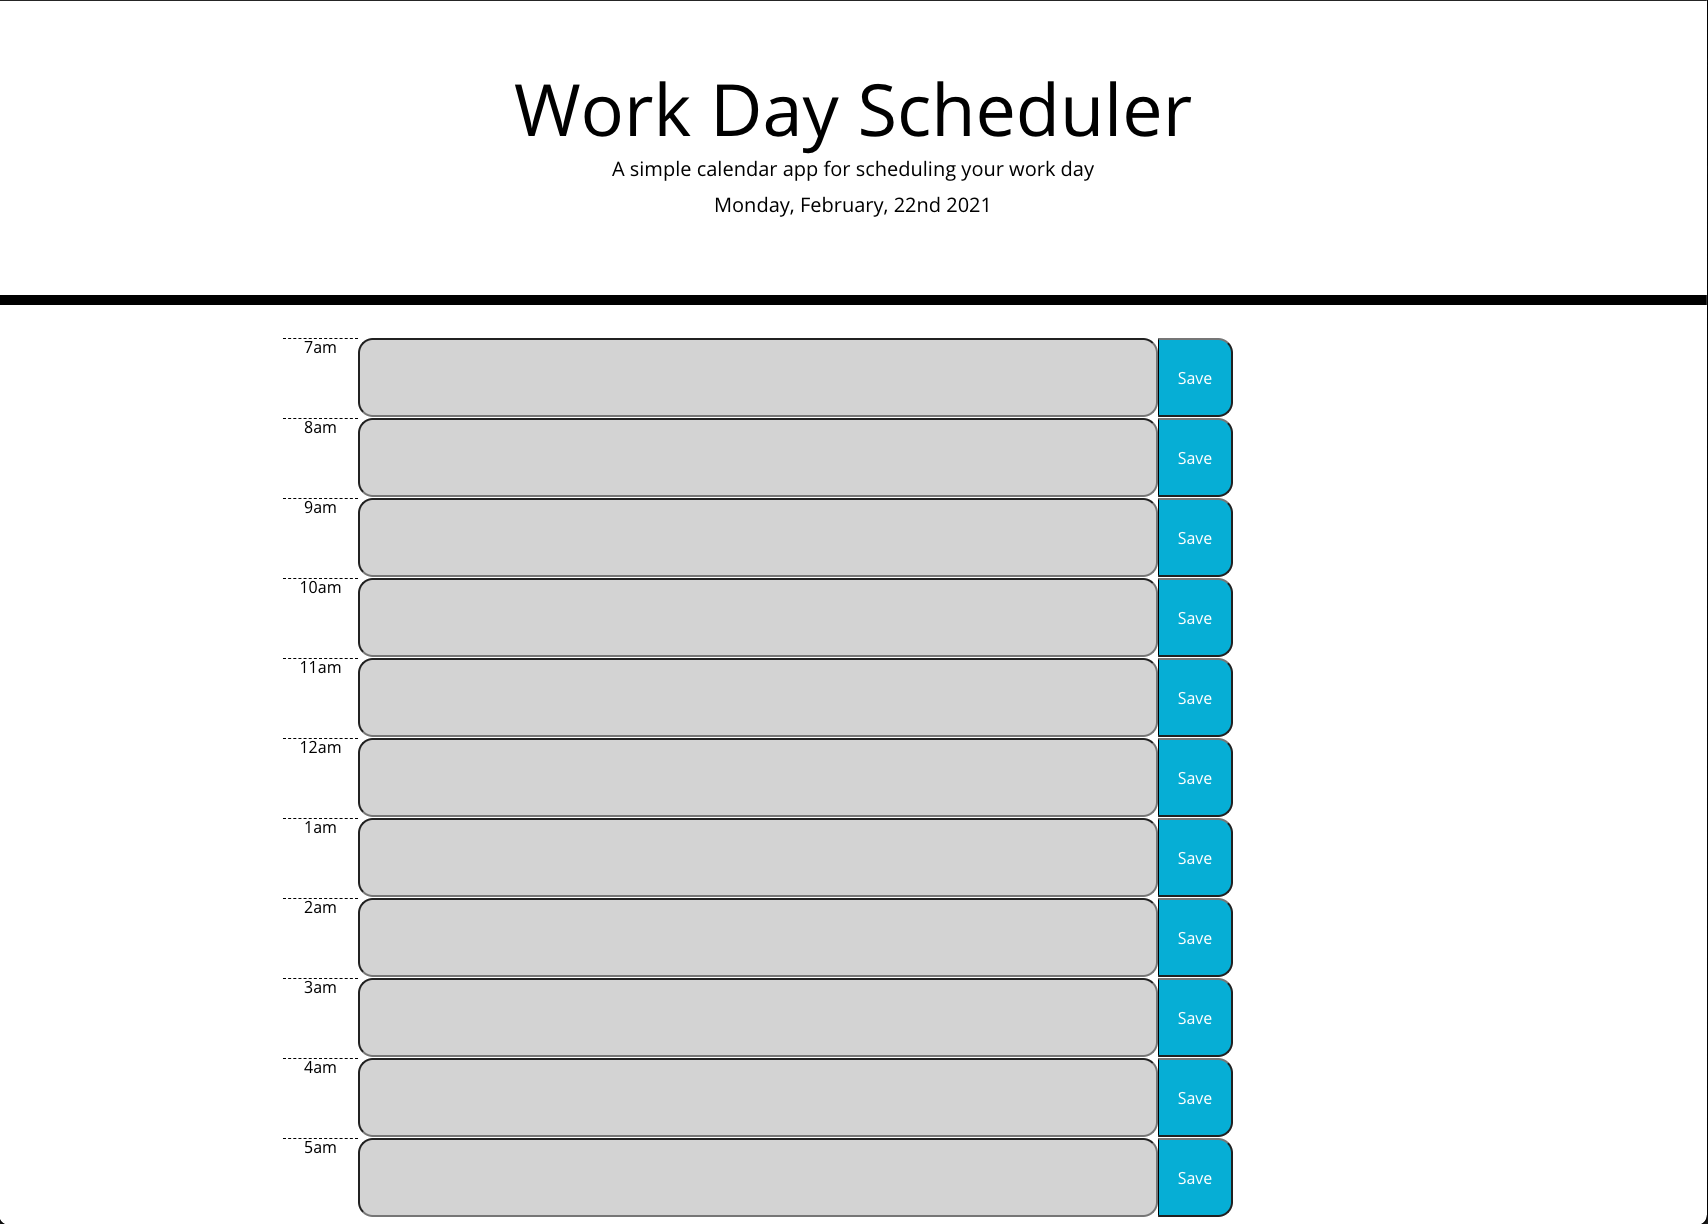
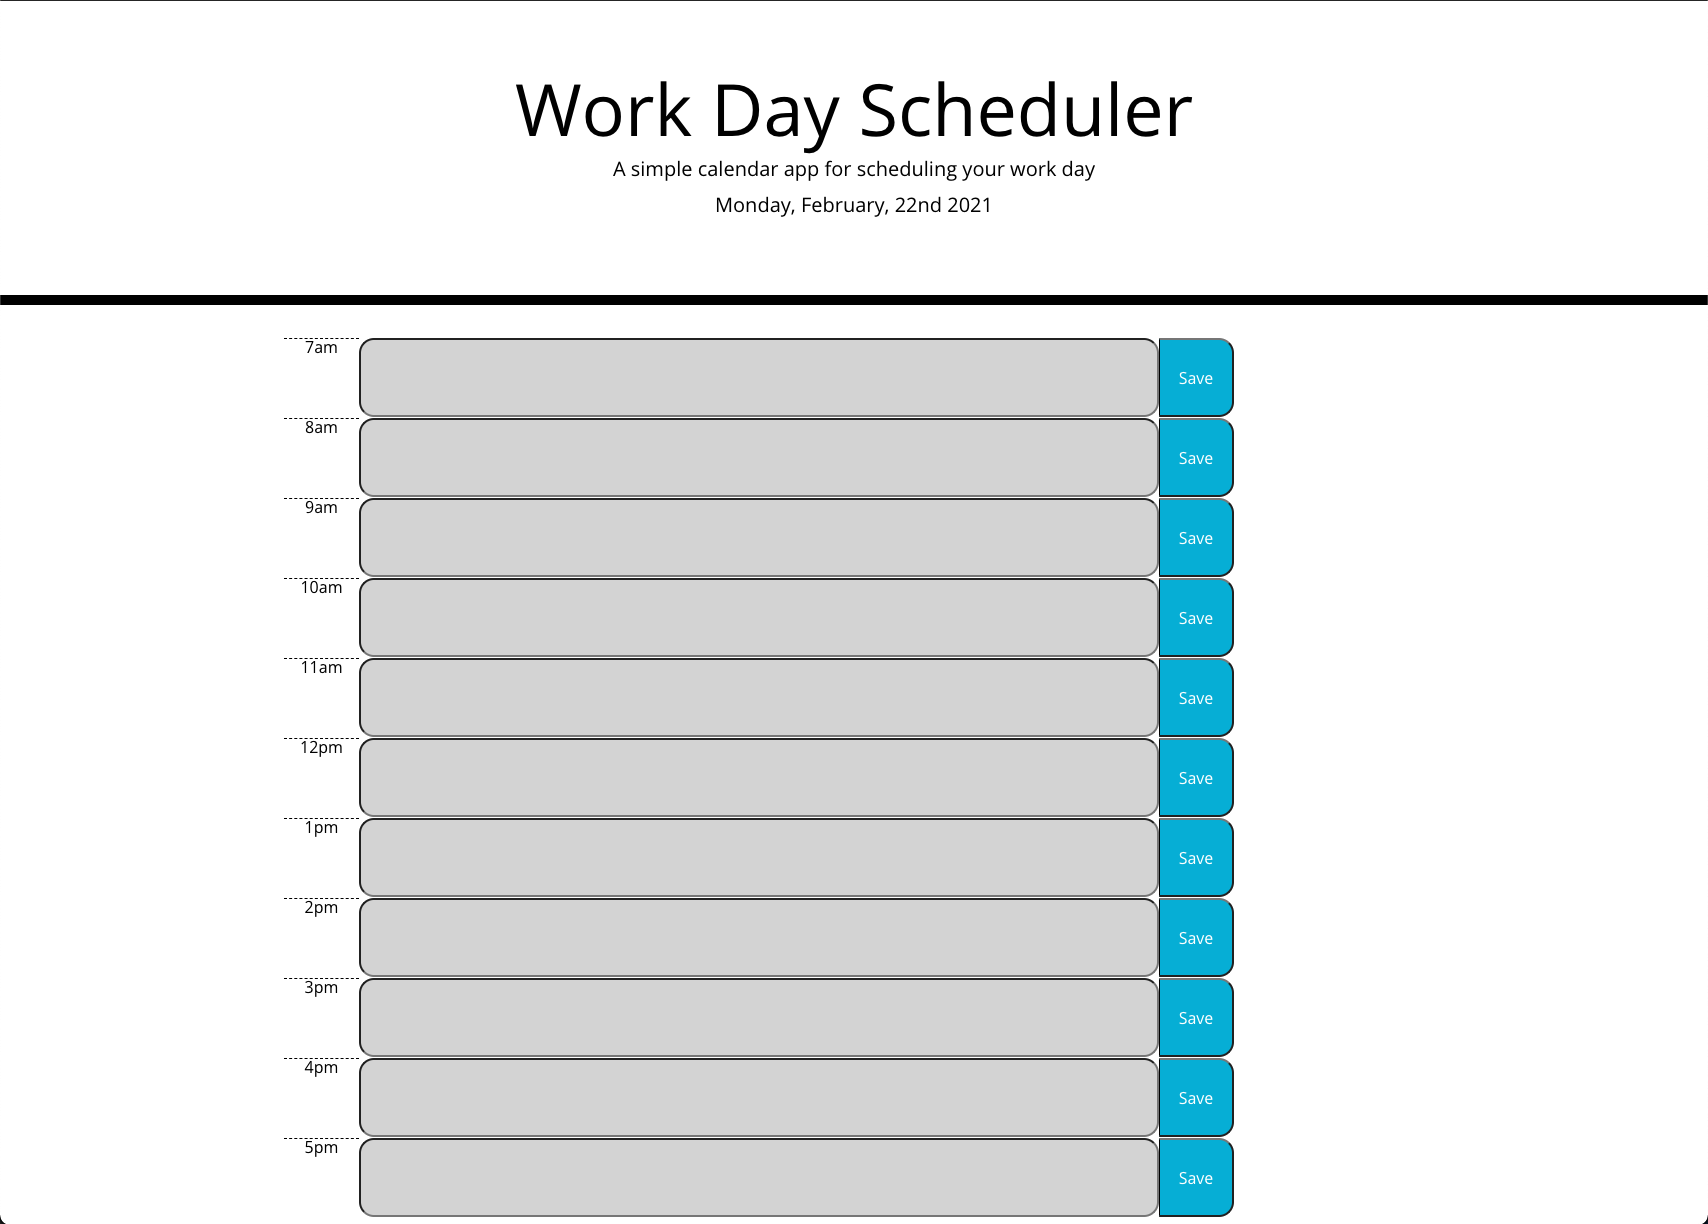
fixed afternoon times to pm

diff --git a/index.html b/index.html
@@ -47,32 +47,32 @@
       <button class="save">Save</button>
     </div>
     <div class="row">
-      <div class="hour">12am</div>
+      <div class="hour">12pm</div>
       <input type="text" id="twelve" class="block">
       <button class="save">Save</button>
     </div>
     <div class="row">
-      <div class="hour">1am</div>
+      <div class="hour">1pm</div>
       <input type="text" id="one" class="block">
       <button class="save">Save</button>
     </div>
     <div class="row">
-      <div class="hour">2am</div>
+      <div class="hour">2pm</div>
       <input type="text" id="two" class="block">
       <button class="save">Save</button>
     </div>
     <div class="row">
-      <div class="hour">3am</div>
+      <div class="hour">3pm</div>
       <input type="text" id="three" class="block">
       <button class="save">Save</button>
     </div>
     <div class="row">
-      <div class="hour">4am</div>
+      <div class="hour">4pm</div>
       <input type="text" id="four" class="block">
       <button class="save">Save</button>
     </div>
     <div class="row">
-      <div class="hour">5am</div>
+      <div class="hour">5pm</div>
       <input type="text" id="five" class="block">
       <button class="save">Save</button>
     </div>
